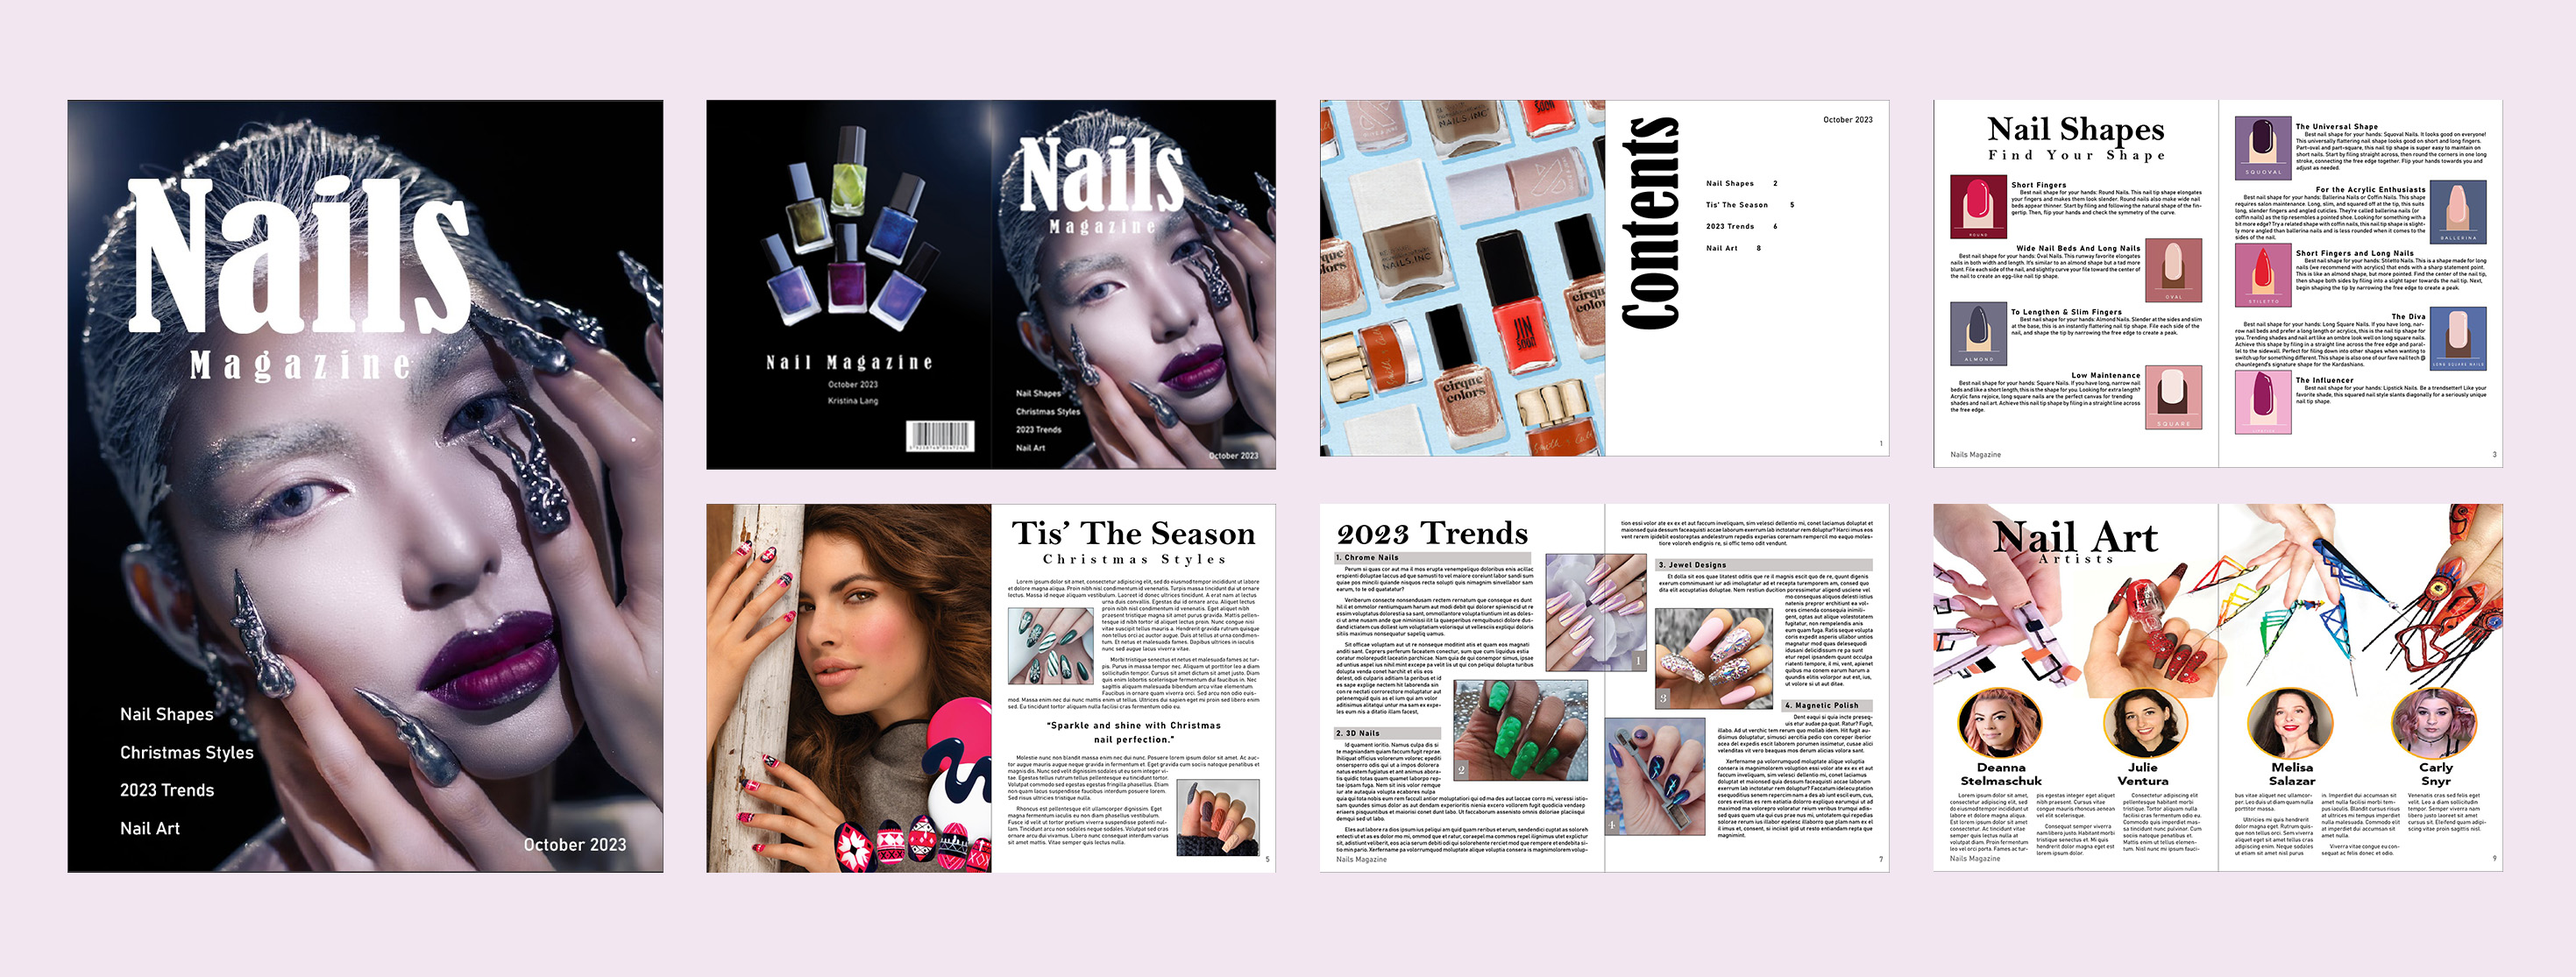
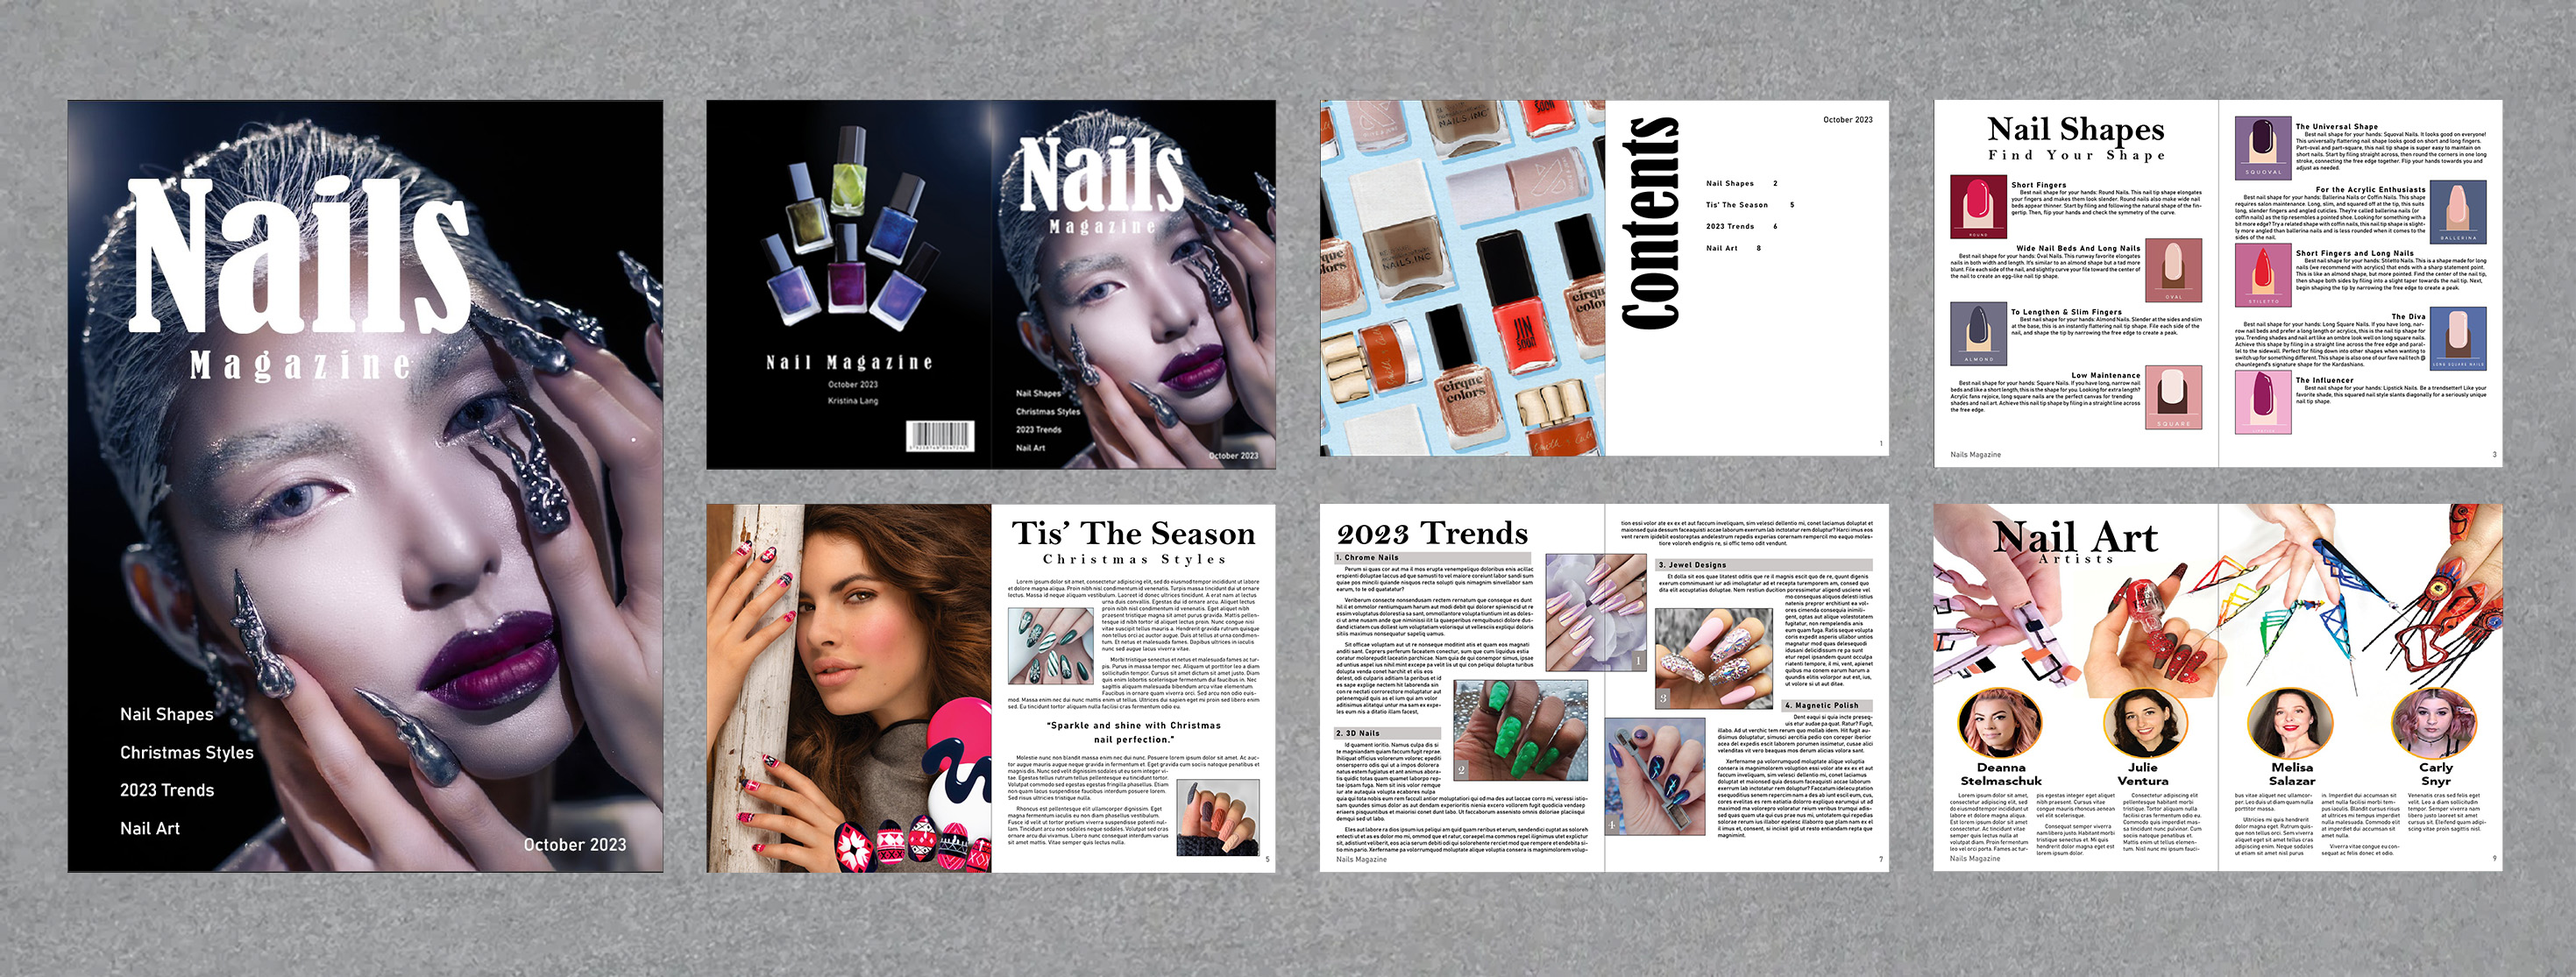
zine added full magazine img back

diff --git a/portfolio-zine.html b/portfolio-zine.html
@@ -52,8 +52,9 @@
               <img class="zine1" src="portfolio content/portfolio 2-zine/magazine cover.jpg" alt="Mgazine Mockup">
             </div>
           </div>
-          
-
+          <div class="zine2">
+            <img src="portfolio content/portfolio 2-zine/full_magazine.jpg" alt="Full zine magazine"/>
+          </div>
           <section id="image-carousel" class="splide" aria-label="Beautiful Images">
             <div class="splide__track">
               <ul class="splide__list">

diff --git a/main.css b/main.css
@@ -634,14 +634,16 @@ header h1 {
 .zine-intro {
     display: flex;
     flex-direction: row;
+    gap: 100px;
+    margin-bottom: 50px;
 }
 .zine1 {
 width: 75%;
-margin: 50px;
-margin-top: 0px;
+height:auto;
 }
-.zine2 {
+.zine2 img {
     width: 100%;
+    height: auto;
     margin-bottom: 100px;
 }
 .splide__slide img {
